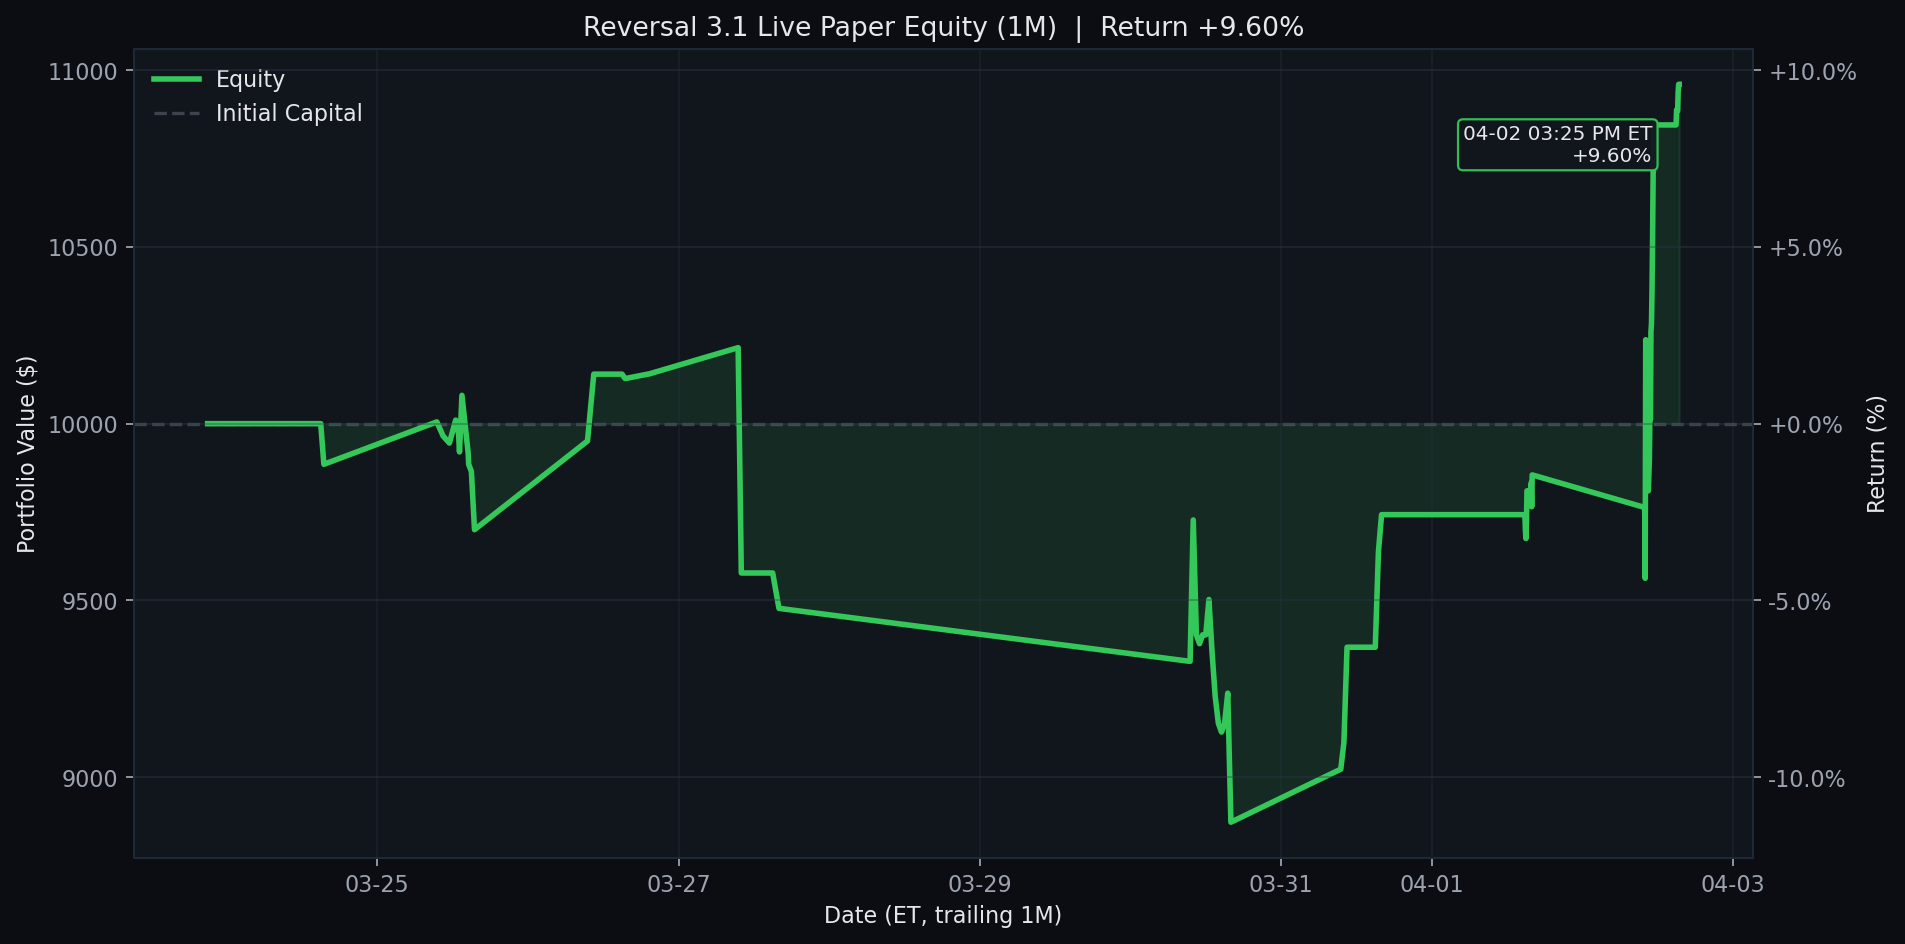
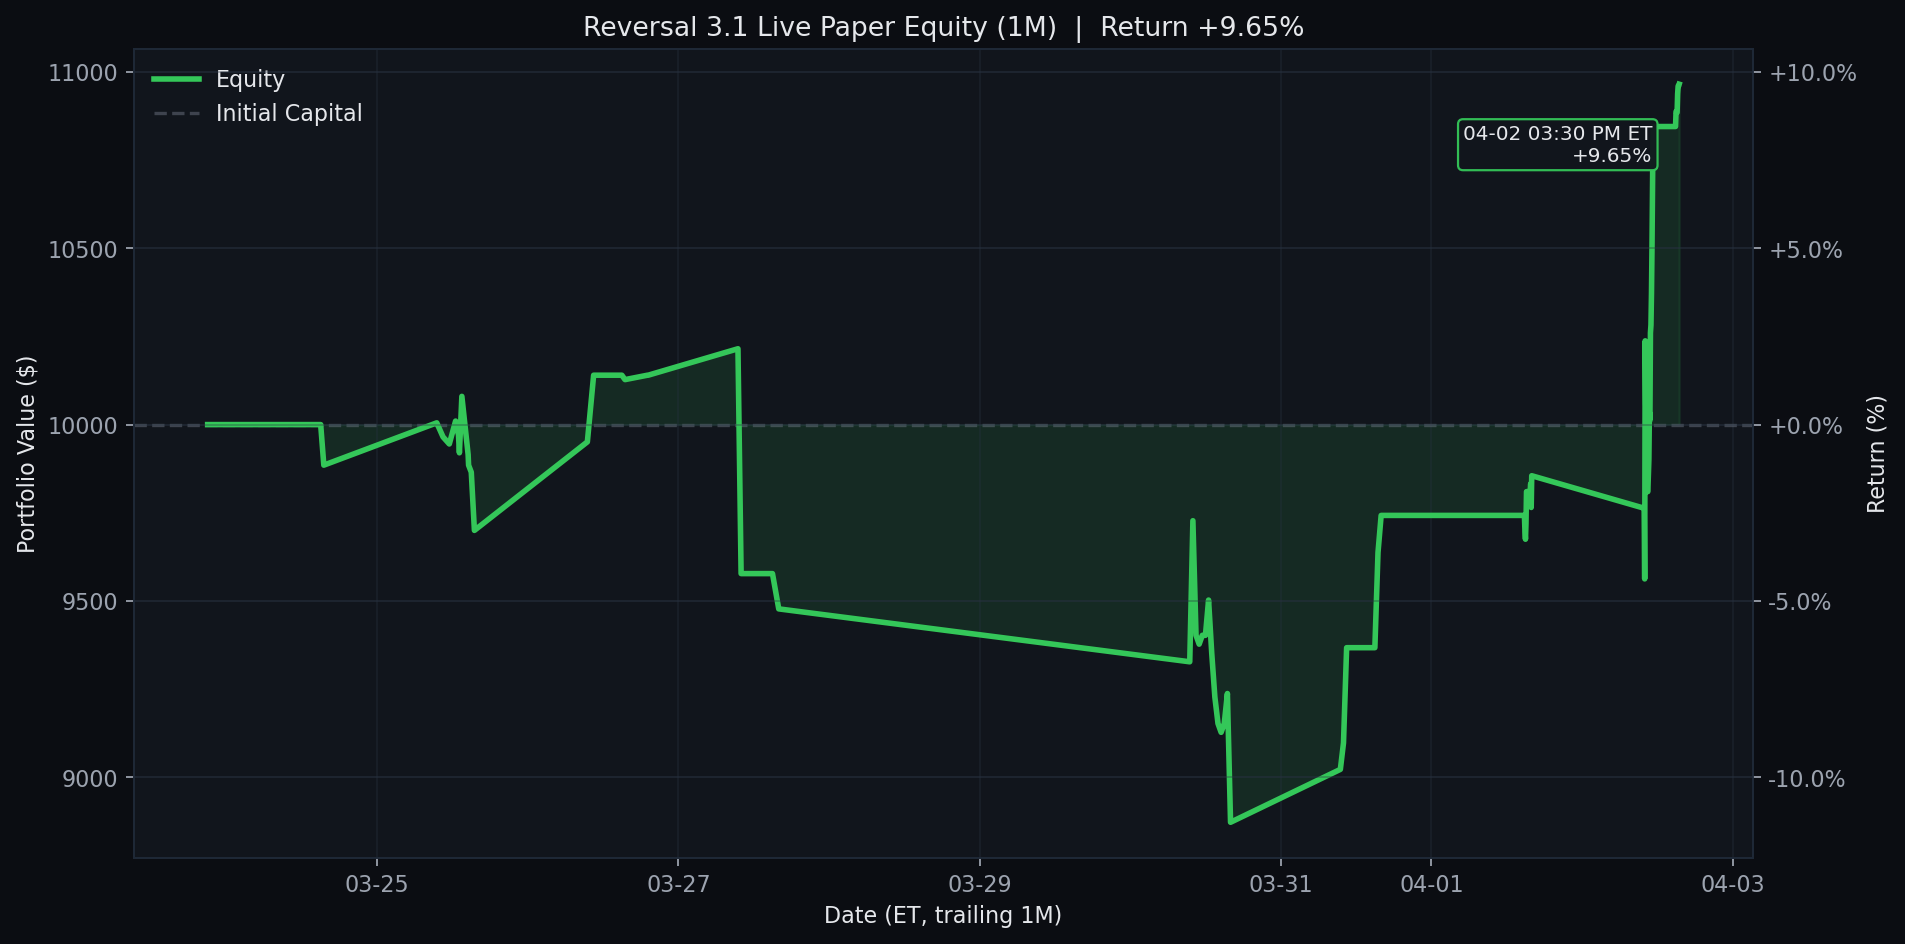
Update Reversal 3.1 live paper test 2026-04-02 15:30 ET

diff --git a/results/reversal_3_1_live/README.md b/results/reversal_3_1_live/README.md
@@ -1,6 +1,6 @@
 # Reversal 3.1 Live Paper Test
 
-Last updated (ET): `2026-04-02 15:25:05 EDT`
+Last updated (ET): `2026-04-02 15:30:05 EDT`
 Last processed slot: `manage_1530`
 
 ## Active Configuration
@@ -20,16 +20,16 @@ Last processed slot: `manage_1530`
 ## Portfolio Snapshot
 
 - Cash: `$8,102.50`
-- Equity: `$10,960.00`
+- Equity: `$10,965.00`
 - Realized PnL: `$845.00`
-- Unrealized PnL: `$115.00`
+- Unrealized PnL: `$120.00`
 - Open positions: `1`
 
 ## Open Positions
 
 ```text
 ticker    contract_symbol entry_trade_date  business_days_held  entry_option_price  current_option_price  entry_spot  current_spot  unrealized_pnl  unrealized_return_pct  success_rate  matched_signals  current_drop_pct  entry_iv_pct  current_iv_pct  rolling_sigma_20d_pct
-   WDC WDC260501C00295000       2026-04-02                   0               27.42                 28.58      294.77        294.18           115.0                   4.19         97.22               36              0.99         81.84           86.09                  91.06
+   WDC WDC260501C00295000       2026-04-02                   0               27.42                 28.62      294.77        293.96           120.0                   4.38         97.22               36              0.99         81.84           86.74                  91.06
 ```
 
 ## Today's Closed Trades (2026-04-02)
@@ -43,24 +43,25 @@ ticker     contract_symbol entry_trade_date_et exit_trade_date_et  entry_option_
 
 ```text
 ticker  success_rate_%  matched_signals  current_drop_%  target_rebound_$  target_price  rolling_sigma_20d_%  call_candidate
-   WDC           97.22               36            1.19              2.49        296.66                91.06            True
-  UPRO           92.50               40            0.51              0.36         99.02                57.18            True
-  DXCM           91.11               45            0.63              0.27         62.25                31.67            True
-  FAST           90.00               30            0.86              0.28         46.51                21.97            True
-  ASML           90.00               10            3.41             32.47       1345.85                52.01            True
-   MAR           89.47               38            0.60              1.41        332.86                28.45            True
-   CSX           89.29               28            0.53              0.15         41.37                27.84            True
-  ORLY           88.24               34            0.78              0.50         91.89                22.81            True
-  GILD           87.50               24            0.83              0.82        139.95                21.47            True
-  KLAC           85.71               35            0.87              9.25       1515.88                56.48            True
-  BKNG           84.21               38            0.71             20.75       4175.67                42.15            True
-  AMAT           83.87               31            1.40              3.46        352.32                59.65            True
+   WDC           97.22               36            1.27              2.64        296.60                91.06            True
+  FAST           90.00               30            0.85              0.28         46.51                21.97            True
+  ASML           90.00               10            3.49             33.19       1345.54                52.01            True
+  CDNS           88.89               45            0.51              1.00        279.76                26.25            True
+   MAR           88.89               36            0.65              1.53        332.81                28.45            True
+  GILD           88.46               26            0.72              0.70        140.00                21.47            True
+  ORLY           88.24               34            0.77              0.50         91.89                22.81            True
+   CSX           88.00               25            0.59              0.17         41.37                27.84            True
+  KLAC           85.71               35            0.88              9.32       1515.84                56.48            True
+  AMAT           84.38               32            1.39              3.44        352.32                59.65            True
+   TXN           83.87               31            0.81              1.11        195.82                33.08            True
+    MU           83.78               37            0.90              2.31        366.86                84.85            True
 ```
 
 ## Recent Events
 
 ```text
                     timestamp_et        slot   event_type                                                                                                                                                                           detail
+2026-04-02T15:30:05.889337-04:00 manage_1530 slot_skipped                                                                                                                                                  {"reason": "already_processed"}
 2026-04-02T15:25:05.929228-04:00 manage_1530 slot_skipped                                                                                                                                                  {"reason": "already_processed"}
 2026-04-02T15:10:05.887758-04:00  entry_1500 slot_skipped                                                                                                                                                  {"reason": "already_processed"}
 2026-04-02T15:05:00.892731-04:00  entry_1500 slot_skipped                                                                                                                                                  {"reason": "already_processed"}
@@ -70,7 +71,6 @@ ticker  success_rate_%  matched_signals  current_drop_%  target_rebound_$  targe
 2026-04-02T14:40:05.911687-04:00 manage_1430 slot_skipped                                                                                                                                                  {"reason": "already_processed"}
 2026-04-02T14:35:05.892322-04:00 manage_1430 slot_skipped                                                                                                                                                  {"reason": "already_processed"}
 2026-04-02T14:30:05.929668-04:00 manage_1430 slot_skipped                                                                                                                                                  {"reason": "already_processed"}
-2026-04-02T14:25:06.347985-04:00 manage_1430 slot_skipped                                                                                                                                                  {"reason": "already_processed"}
 ```
 
 ## Equity Curves

diff --git a/README.md b/README.md
@@ -3,8 +3,8 @@
 <!-- reversal-3.1-live:start -->
 ## Reversal 3.1 Live Paper Test
 
-- Last updated (ET): `2026-04-02 15:25:05 EDT`
-- Equity: `$10,960.00` | Realized: `$845.00` | Unrealized: `$115.00` | Open positions: `1`
+- Last updated (ET): `2026-04-02 15:30:05 EDT`
+- Equity: `$10,965.00` | Realized: `$845.00` | Unrealized: `$120.00` | Open positions: `1`
 - Today closed trades: `1`
 - Current slot: `manage_1530`
 - Universe: `qqq_plus_leverage_etfs`
@@ -14,7 +14,7 @@
 
 ```text
 ticker    contract_symbol  current_option_price  unrealized_pnl  unrealized_return_pct  business_days_held
-   WDC WDC260501C00295000                 28.58           115.0                   4.19                   0
+   WDC WDC260501C00295000                 28.62           120.0                   4.38                   0
 ```
 
 <details>
